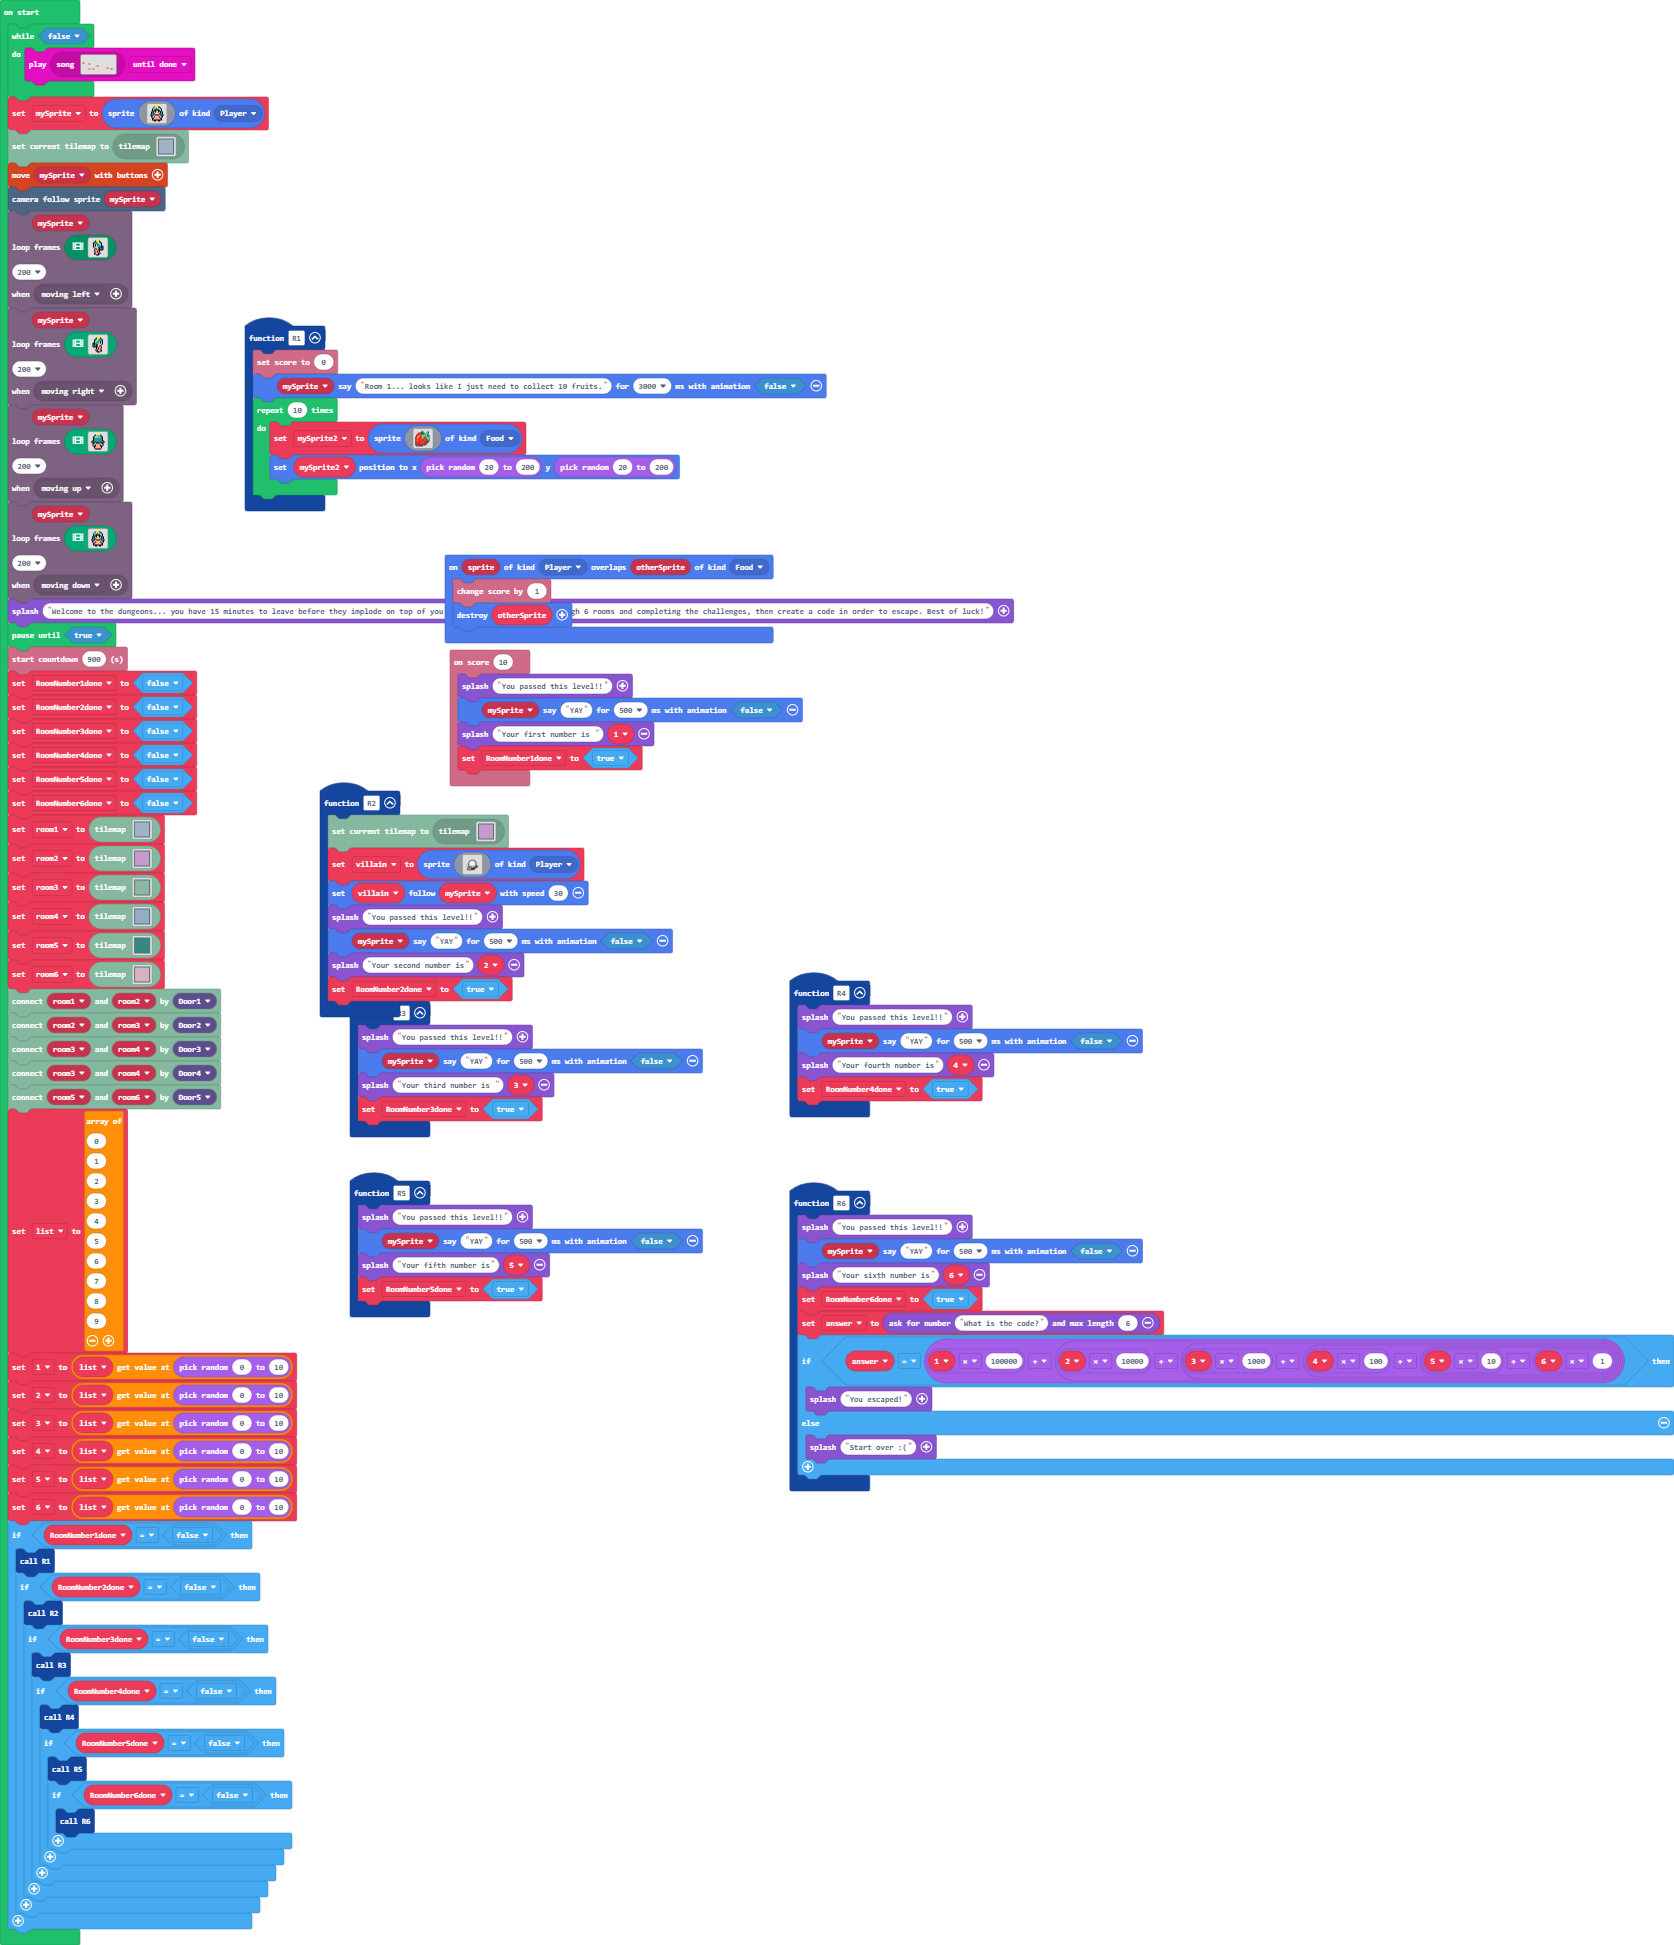
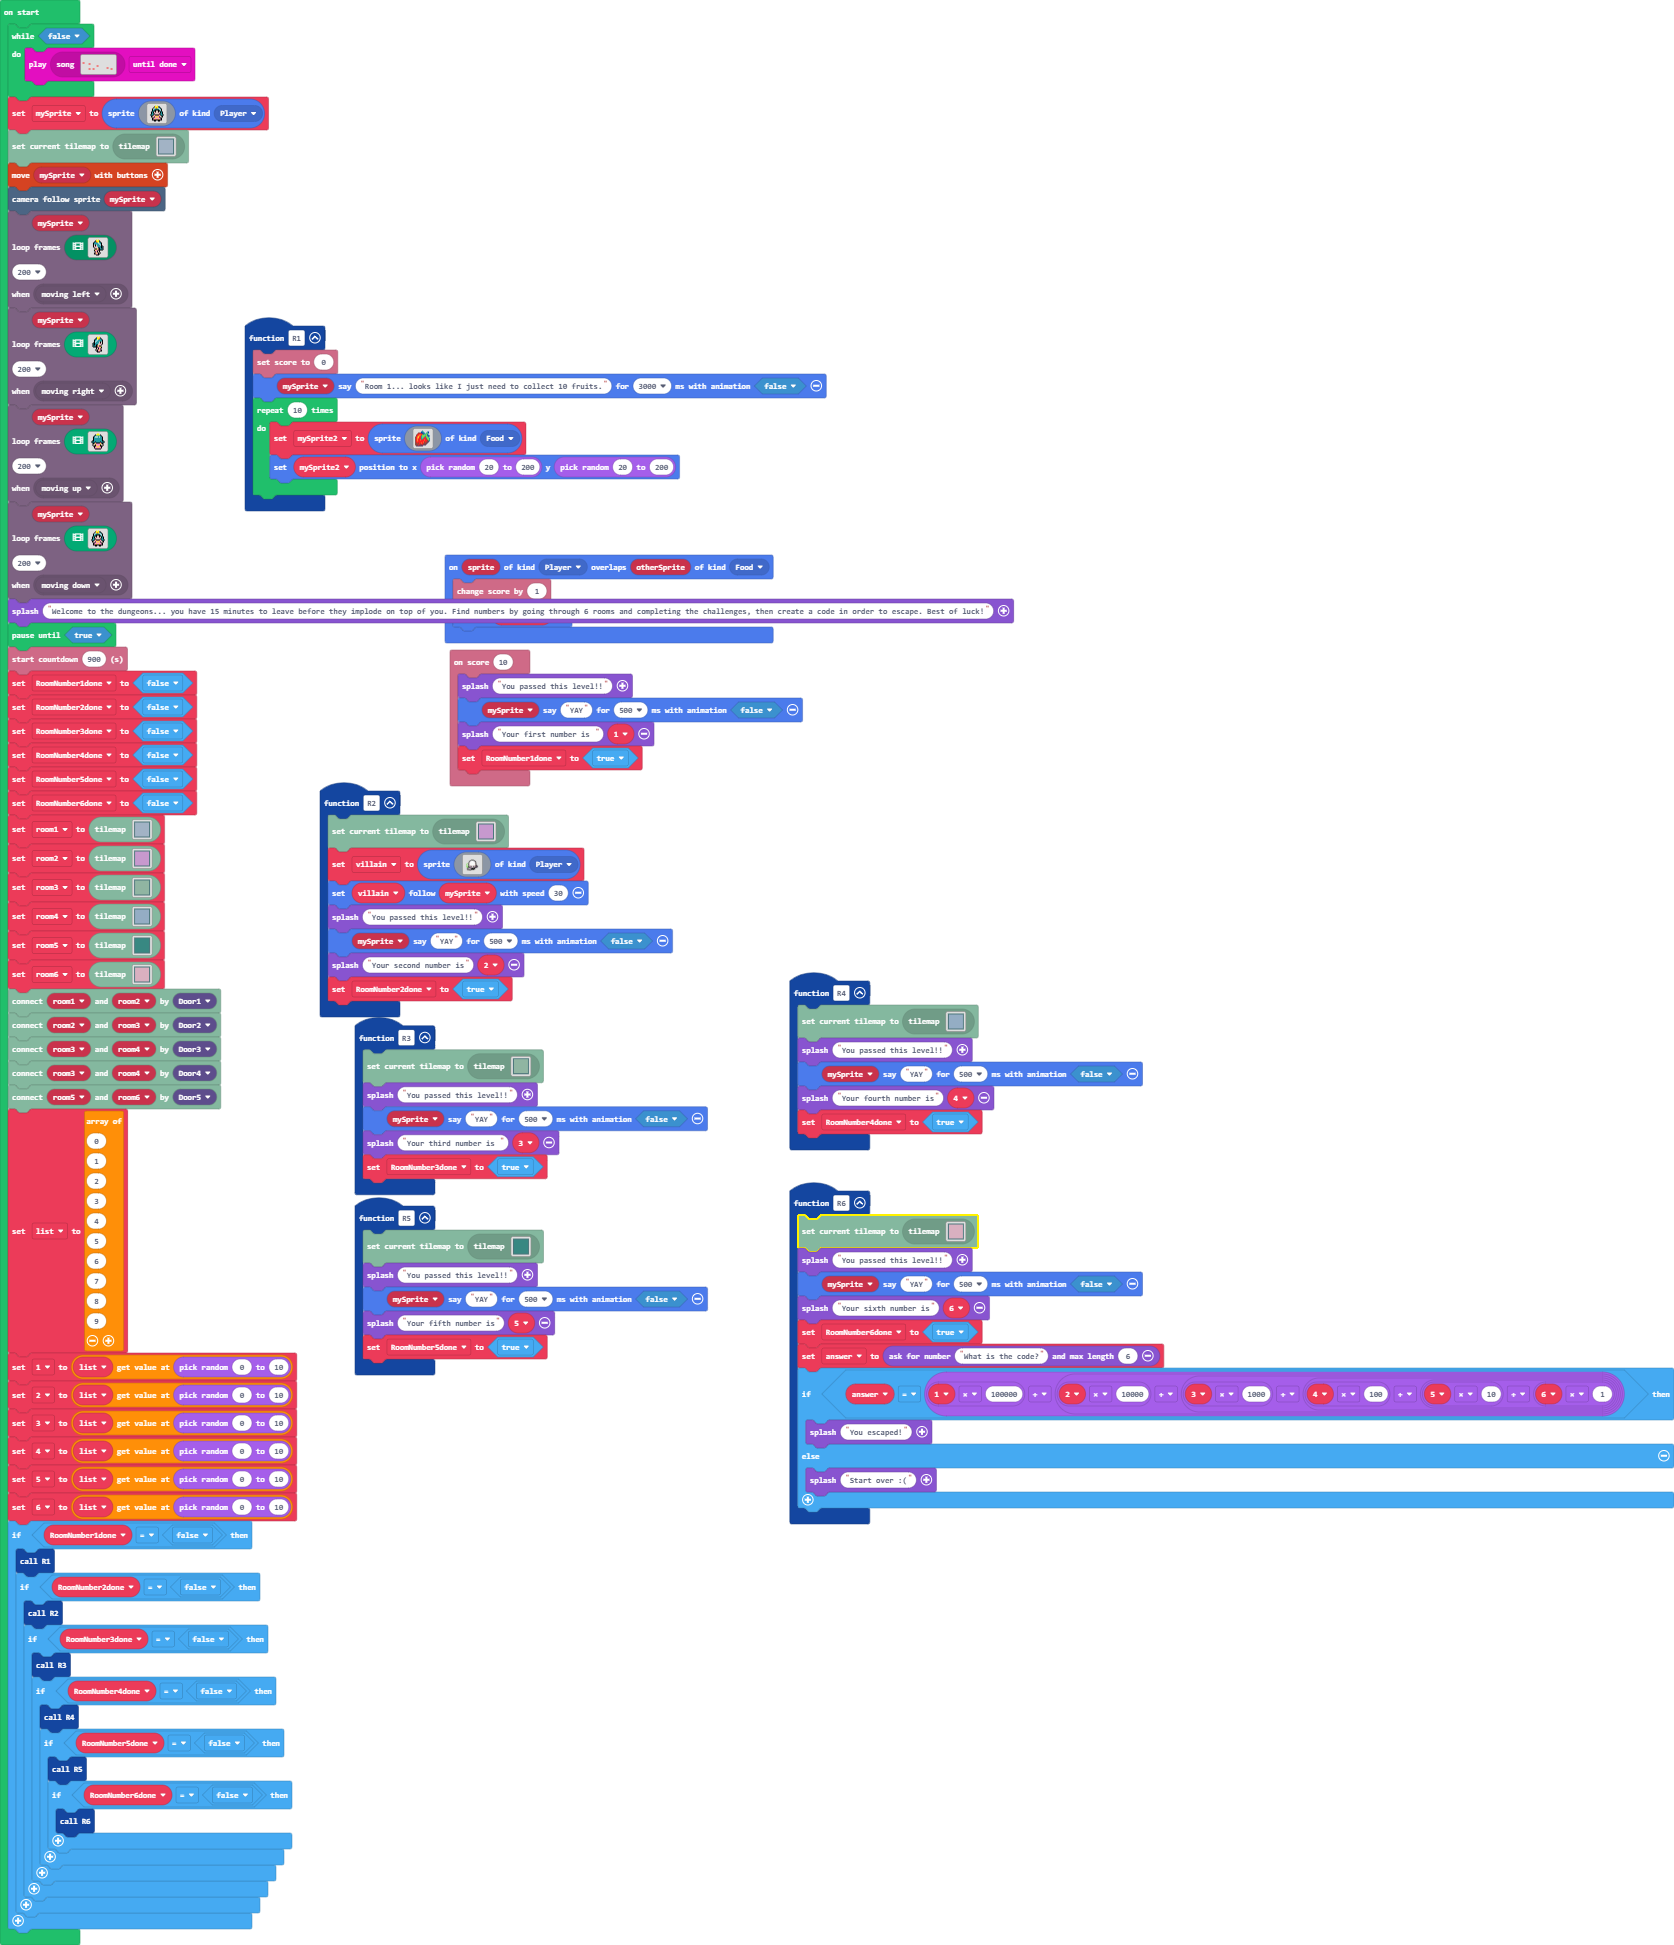
tilemap per room

Changed region(s): [[0.4659, 0.4936, 1.0, 0.8021], [0.1864, 0.5244, 0.4349, 0.7095], [0.2485, 0.3085, 0.3417, 0.3393]]

diff --git a/tilemap.g.ts b/tilemap.g.ts
@@ -570,6 +570,82 @@ namespace myTiles {
 . . . . . . . . . . . . . . . . 
 . . . . . . . . . . . . . . . . 
 `, [myTiles.transparency16], TileScale.Sixteen);
+            case "level30":
+            case "level30":return tiles.createTilemap(hex`1000100000000000000000000000000000000000000000000000000000000000000000000000000000000000000000000000000000000000000000000000000000000000000000000000000000000000000000000000000000000000000000000000000000000000000000000000000000000000000000000000000000000000000000000000000000000000000000000000000000000000000000000000000000000000000000000000000000000000000000000000000000000000000000000000000000000000000000000000000000000000000000000000000000000000000000000000000000000000000000000000000000000000000000000000000000000000`, img`
+. . . . . . . . . . . . . . . . 
+. . . . . . . . . . . . . . . . 
+. . . . . . . . . . . . . . . . 
+. . . . . . . . . . . . . . . . 
+. . . . . . . . . . . . . . . . 
+. . . . . . . . . . . . . . . . 
+. . . . . . . . . . . . . . . . 
+. . . . . . . . . . . . . . . . 
+. . . . . . . . . . . . . . . . 
+. . . . . . . . . . . . . . . . 
+. . . . . . . . . . . . . . . . 
+. . . . . . . . . . . . . . . . 
+. . . . . . . . . . . . . . . . 
+. . . . . . . . . . . . . . . . 
+. . . . . . . . . . . . . . . . 
+. . . . . . . . . . . . . . . . 
+`, [myTiles.transparency16], TileScale.Sixteen);
+            case "level31":
+            case "level31":return tiles.createTilemap(hex`1000100000000000000000000000000000000000000000000000000000000000000000000000000000000000000000000000000000000000000000000000000000000000000000000000000000000000000000000000000000000000000000000000000000000000000000000000000000000000000000000000000000000000000000000000000000000000000000000000000000000000000000000000000000000000000000000000000000000000000000000000000000000000000000000000000000000000000000000000000000000000000000000000000000000000000000000000000000000000000000000000000000000000000000000000000000000000`, img`
+. . . . . . . . . . . . . . . . 
+. . . . . . . . . . . . . . . . 
+. . . . . . . . . . . . . . . . 
+. . . . . . . . . . . . . . . . 
+. . . . . . . . . . . . . . . . 
+. . . . . . . . . . . . . . . . 
+. . . . . . . . . . . . . . . . 
+. . . . . . . . . . . . . . . . 
+. . . . . . . . . . . . . . . . 
+. . . . . . . . . . . . . . . . 
+. . . . . . . . . . . . . . . . 
+. . . . . . . . . . . . . . . . 
+. . . . . . . . . . . . . . . . 
+. . . . . . . . . . . . . . . . 
+. . . . . . . . . . . . . . . . 
+. . . . . . . . . . . . . . . . 
+`, [myTiles.transparency16], TileScale.Sixteen);
+            case "level32":
+            case "level32":return tiles.createTilemap(hex`1000100000000000000000000000000000000000000000000000000000000000000000000000000000000000000000000000000000000000000000000000000000000000000000000000000000000000000000000000000000000000000000000000000000000000000000000000000000000000000000000000000000000000000000000000000000000000000000000000000000000000000000000000000000000000000000000000000000000000000000000000000000000000000000000000000000000000000000000000000000000000000000000000000000000000000000000000000000000000000000000000000000000000000000000000000000000000`, img`
+. . . . . . . . . . . . . . . . 
+. . . . . . . . . . . . . . . . 
+. . . . . . . . . . . . . . . . 
+. . . . . . . . . . . . . . . . 
+. . . . . . . . . . . . . . . . 
+. . . . . . . . . . . . . . . . 
+. . . . . . . . . . . . . . . . 
+. . . . . . . . . . . . . . . . 
+. . . . . . . . . . . . . . . . 
+. . . . . . . . . . . . . . . . 
+. . . . . . . . . . . . . . . . 
+. . . . . . . . . . . . . . . . 
+. . . . . . . . . . . . . . . . 
+. . . . . . . . . . . . . . . . 
+. . . . . . . . . . . . . . . . 
+. . . . . . . . . . . . . . . . 
+`, [myTiles.transparency16], TileScale.Sixteen);
+            case "level33":
+            case "level33":return tiles.createTilemap(hex`1000100000000000000000000000000000000000000000000000000000000000000000000000000000000000000000000000000000000000000000000000000000000000000000000000000000000000000000000000000000000000000000000000000000000000000000000000000000000000000000000000000000000000000000000000000000000000000000000000000000000000000000000000000000000000000000000000000000000000000000000000000000000000000000000000000000000000000000000000000000000000000000000000000000000000000000000000000000000000000000000000000000000000000000000000000000000000`, img`
+. . . . . . . . . . . . . . . . 
+. . . . . . . . . . . . . . . . 
+. . . . . . . . . . . . . . . . 
+. . . . . . . . . . . . . . . . 
+. . . . . . . . . . . . . . . . 
+. . . . . . . . . . . . . . . . 
+. . . . . . . . . . . . . . . . 
+. . . . . . . . . . . . . . . . 
+. . . . . . . . . . . . . . . . 
+. . . . . . . . . . . . . . . . 
+. . . . . . . . . . . . . . . . 
+. . . . . . . . . . . . . . . . 
+. . . . . . . . . . . . . . . . 
+. . . . . . . . . . . . . . . . 
+. . . . . . . . . . . . . . . . 
+. . . . . . . . . . . . . . . . 
+`, [myTiles.transparency16], TileScale.Sixteen);
         }
         return null;
     })

diff --git a/main.ts b/main.ts
@@ -4,6 +4,7 @@ namespace ConnectionKind {
     export const Door5 = ConnectionKind.create()
 }
 function R6 () {
+    tiles.loadMap(tiles.createMap(tilemap`level17`))
     game.splash("You passed this level!!")
     mySprite.sayText("YAY", 500, false)
     game.splash("Your sixth number is", _6)
@@ -81,12 +82,14 @@ function R2 () {
     RoomNumber2done = true
 }
 function R3 () {
+    tiles.loadMap(tiles.createMap(tilemap`level8`))
     game.splash("You passed this level!!")
     mySprite.sayText("YAY", 500, false)
     game.splash("Your third number is ", _3)
     RoomNumber3done = true
 }
 function R4 () {
+    tiles.loadMap(tiles.createMap(tilemap`level13`))
     game.splash("You passed this level!!")
     mySprite.sayText("YAY", 500, false)
     game.splash("Your fourth number is", _4)
@@ -97,6 +100,7 @@ sprites.onOverlap(SpriteKind.Player, SpriteKind.Food, function (sprite, otherSpr
     sprites.destroy(otherSprite)
 })
 function R5 () {
+    tiles.loadMap(tiles.createMap(tilemap`level15`))
     game.splash("You passed this level!!")
     mySprite.sayText("YAY", 500, false)
     game.splash("Your fifth number is", _5)
